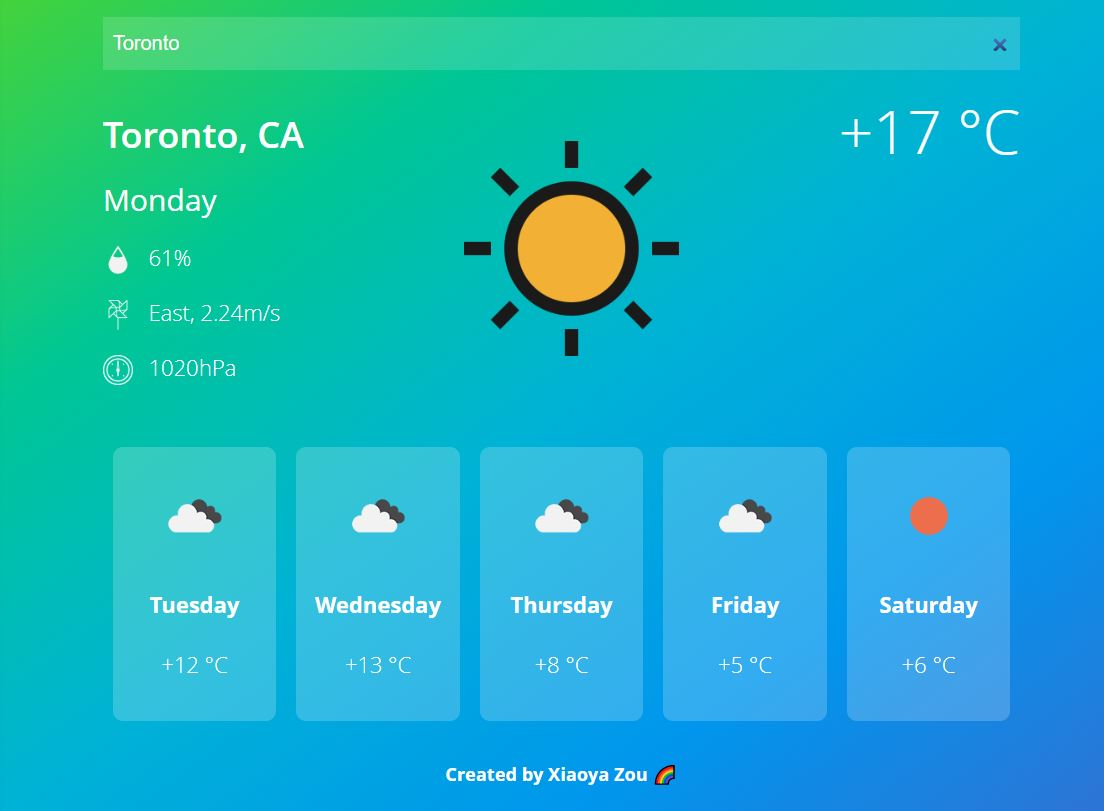
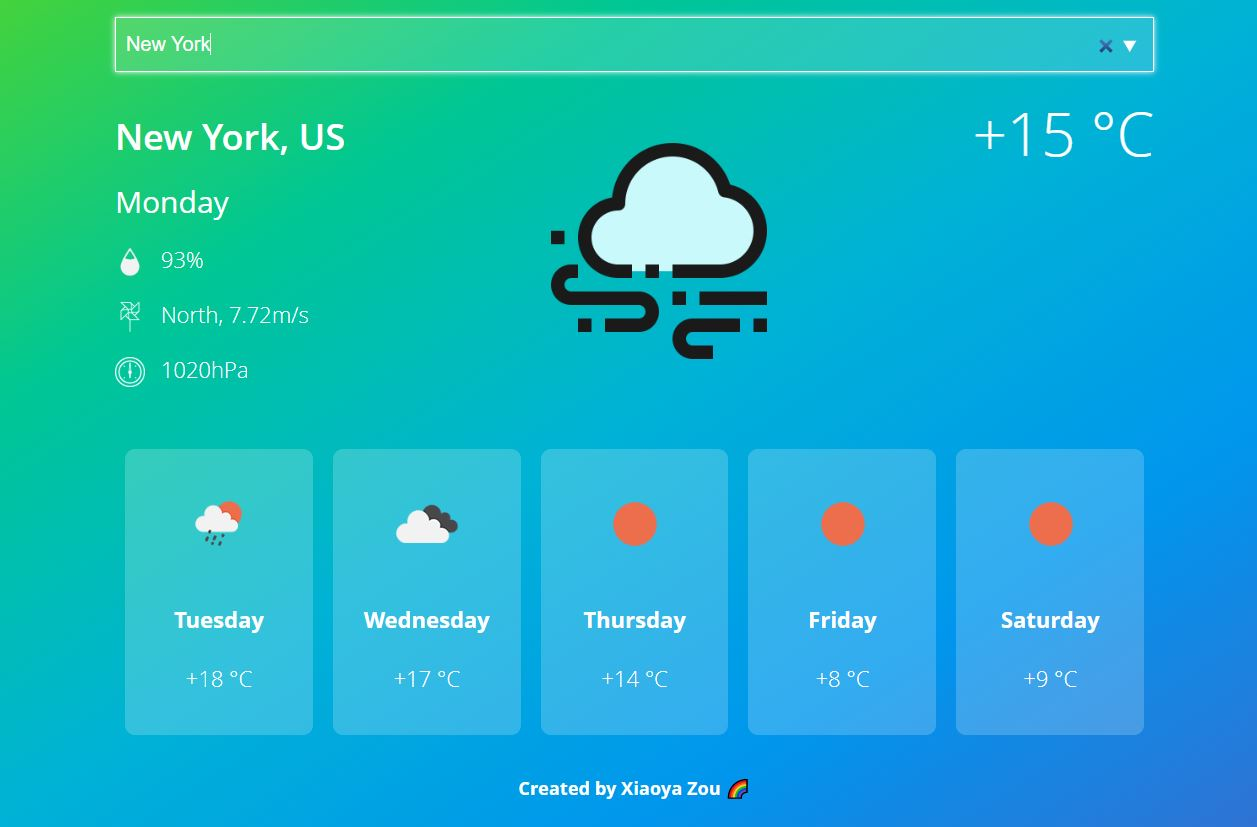
Complete default city and location suggestion list

diff --git a/js/script.js b/js/script.js
@@ -20,6 +20,7 @@ let weatherAPIKey = '84f4dde0ea6a0bf2e3864301871f625e';
 let weatherBaseEndPoint = 'https://api.openweathermap.org/data/2.5/weather?units=metric&appid=' + weatherAPIKey;
 let forecastBaseEndPoint = 'https://api.openweathermap.org/data/2.5/forecast?units=metric&appid=' + weatherAPIKey;
 let geocodingBaseEndPoint = 'http://api.openweathermap.org/geo/1.0/direct?&limit=5&appid='+ weatherAPIKey + '&q=';
+let datalist = document.getElementById('suggestions');
 
 // Get images in groups
 let weatherImages = [
@@ -81,22 +82,29 @@ let getWeatherByCityID = async(id) => {
     forecastList.forEach(day => {
         let date = new Date(day.dt_txt.replace(' ', 'T')); // Convert the date & time in the MDN dates format
         let hours = date.getHours(); // Get the time of the day
-            console.log(hours);
         if (hours === 12) { // If the hour is 12, then add the day to the daily array
             daily.push(day);
         }
     })
     return daily;
 }
+let weatherForCity = async (city) => {
+    let weather = await getWeatherByCityName(city); // Call the getWeatherByCityName function
+    console.log(weather);
+        let cityID = weather.id;
+    if (weather.cod === '404') {
+        return;
+    } else {
+        updateCurrentWeather(weather);
+        let forecast = await getWeatherByCityID(cityID);
+        updateForecast(forecast);
+    }
+}
 
 // When user search for a city, there is an action should be taken
 searchInp.addEventListener('keydown', async (e) => {  // e stores the event
     if (e.keyCode === 13) { // If user press the enter key
-        let weather = await getWeatherByCityName(searchInp.value); // Call the getWeatherByCityName function
-        let cityID = weather.id;
-        updateCurrentWeather(weather);
-        let forecast = await getWeatherByCityID(cityID);
-        updateForecast(forecast);
+        weatherForCity(searchInp.value);
     }
 })
 
@@ -107,8 +115,11 @@ searchInp.addEventListener('input', async () => {
     }
     let endpoint = geocodingBaseEndPoint + searchInp.value;
     let result = await (await fetch(endpoint)).json();
+    datalist.innerHTML = ''; // Remove the previous searching history
     result.forEach((city) => { // Get the correct city data with country and state
-        console.log(`${city.name} ${city.state ? ',' + city.state : ''}, ${city.country}`);
+        let option = document.createElement('option');
+        option.value = `${city.name}${city.state ? ', ' + city.state : ''}, ${city.country}`;
+        datalist.appendChild(option);
     })
 })
 
@@ -173,5 +184,12 @@ let updateForecast = (forecast) => {
 
 // A function to get the current day
 let dayOfWeek = (dt = new Date().getTime()) => {
-    return new Date(dt).toLocaleDateString('en-EN', { 'weekday': 'long' }); // Get the local day and display in English
+    return new Date(dt).toLocaleDateString('en-EN', {'weekday': 'long'}); // Get the local day and display in English
 }
+
+// A function to show current location and weather when user open my page 
+let init = async () => {
+    await weatherForCity('Toronto'); // Use Toronto as default
+    document.body.style.filter = 'blur(0)';
+}
+init();

diff --git a/index.html b/index.html
@@ -15,7 +15,15 @@
   <body>
     <div class="weather">
       <!-- Enter your city name -->
-      <input type="search" class="weather-search" placeholder="Your city" />
+      <input
+        type="search"
+        list="suggestions"
+        class="weather-search"
+        placeholder="Your city"
+      />
+
+      <!-- Display location suggestions -->
+      <datalist id="suggestions"></datalist>
 
       <!-- Display today's weather information -->
       <div class="weather-today">

diff --git a/css/style.css b/css/style.css
@@ -40,6 +40,8 @@ body {
     font-family: 'Open Sans', Arial, sans-serif;
     font-weight: 300;
     font-size: 22px;
+    filter: blur(15px); /* Apply a blur effect when loading the page */
+    transition: filter 0.5s;
 }
 
 h5 {
